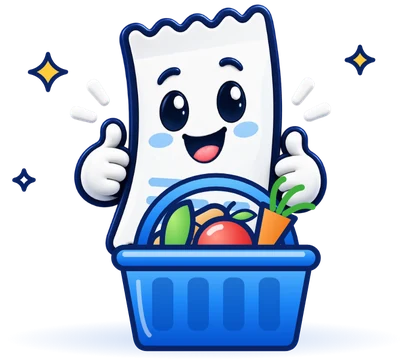
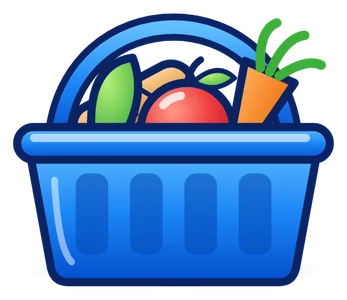
Use clean object illustrations without mascot in discover tiles
Claude-Session: https://claude.ai/code/session_01RAugsNenM11thSoThEpHun

diff --git a/apps/web/src/app/globals.css b/apps/web/src/app/globals.css
@@ -4883,18 +4883,19 @@ button.supermarket-choice.is-future:disabled { opacity: 1; cursor: default; }
   .ux-product-row .product-image { width: 62px; height: 72px; }
 }
 
-/* Ontdek-tegels: Maatje-illustraties in plaats van lijniconen */
-.discover-shortcuts button { grid-template-columns: minmax(0,1fr) 26px; grid-template-rows: auto auto; gap: 6px 6px; min-height: 0; padding: 8px 11px 12px; }
-.discover-shortcuts button > span.discover-tile-art { grid-column: 1 / -1; grid-row: 1; display: block; justify-self: center; width: 100%; max-width: 170px; }
-.discover-tile-art img { display: block; width: 100%; height: auto; filter: drop-shadow(0 3px 5px color-mix(in srgb, var(--brand-deep) 12%, transparent)); }
-.discover-shortcuts button > span:nth-child(2) { grid-column: 1; grid-row: 2; align-self: center; }
-.discover-shortcuts button > span:nth-child(3) { grid-column: 2; grid-row: 2; align-self: center; }
-.discover-shortcuts button:nth-child(3) { grid-template-columns: 96px minmax(0,1fr) 26px; grid-template-rows: auto; gap: 12px; padding: 6px 13px 6px 10px; }
-.discover-shortcuts button:nth-child(3) > span.discover-tile-art { grid-column: 1; grid-row: 1; max-width: 96px; }
-.discover-shortcuts button:nth-child(3) > span:nth-child(2) { grid-column: 2; grid-row: 1; }
-.discover-shortcuts button:nth-child(3) > span:nth-child(3) { grid-column: 3; grid-row: 1; }
+/* Ontdek-tegels: strakke illustraties van voorwerpen in plaats van lijniconen */
+.discover-shortcuts button { grid-template-columns: minmax(0,1fr) 26px; grid-template-rows: 64px auto; gap: 10px 6px; min-height: 0; padding: 14px 13px 13px; }
+.discover-shortcuts button > span.discover-tile-art { grid-column: 1 / -1; grid-row: 1; display: flex; align-items: center; justify-content: flex-start; height: 64px; }
+.discover-tile-art img { display: block; width: auto; height: 100%; }
+.discover-shortcuts button > span:nth-child(2) { grid-column: 1; grid-row: 2; align-self: start; }
+.discover-shortcuts button > span:nth-child(3) { grid-column: 2; grid-row: 2; align-self: start; }
+.discover-shortcuts button:nth-child(3) { grid-template-columns: 74px minmax(0,1fr) 26px; grid-template-rows: auto; gap: 12px; padding: 12px 13px; }
+.discover-shortcuts button:nth-child(3) > span.discover-tile-art { grid-column: 1; grid-row: 1; justify-content: center; height: 56px; }
+.discover-shortcuts button:nth-child(3) > span:nth-child(2) { grid-column: 2; grid-row: 1; align-self: center; }
+.discover-shortcuts button:nth-child(3) > span:nth-child(3) { grid-column: 3; grid-row: 1; align-self: center; }
 @media (max-width: 390px) {
-  .discover-shortcuts button { min-height: 0; padding: 7px 9px 11px; }
-  .discover-shortcuts button:nth-child(3) { grid-template-columns: 86px minmax(0,1fr) 26px; padding: 6px 11px 6px 8px; }
-  .discover-shortcuts button:nth-child(3) > span.discover-tile-art { max-width: 86px; }
+  .discover-shortcuts button { min-height: 0; grid-template-rows: 56px auto; padding: 12px 11px 11px; }
+  .discover-shortcuts button > span.discover-tile-art { height: 56px; }
+  .discover-shortcuts button:nth-child(3) { grid-template-columns: 66px minmax(0,1fr) 26px; padding: 11px; }
+  .discover-shortcuts button:nth-child(3) > span.discover-tile-art { height: 50px; }
 }

diff --git a/apps/web/src/components/catalog/CatalogSearchView.tsx b/apps/web/src/components/catalog/CatalogSearchView.tsx
@@ -284,13 +284,13 @@ export function CatalogSearchView({ discovery = false }: { discovery?: boolean }
       {discovery && !searchActive ? (
         <div className="discover-shortcuts" aria-label="Ontdek op jouw manier">
             <button type="button" aria-pressed={query.offersOnly} onClick={() => updateQuery({ ...query, offersOnly: true })}>
-              <span className="discover-tile-art" aria-hidden="true"><Image src="/branding/discover/aanbiedingen.webp" alt="" width={520} height={388} sizes="180px" /></span><span><strong>Aanbiedingen</strong><small>Bekijk alle acties</small></span><span className="discover-tile-chevron" aria-hidden="true"><Icon name="chevron" size={18} /></span>
+              <span className="discover-tile-art" aria-hidden="true"><Image src="/branding/discover/aanbiedingen.webp" alt="" width={319} height={300} sizes="80px" /></span><span><strong>Aanbiedingen</strong><small>Bekijk alle acties</small></span><span className="discover-tile-chevron" aria-hidden="true"><Icon name="chevron" size={18} /></span>
             </button>
             <button type="button" aria-pressed={query.sort === "price-asc"} onClick={() => updateQuery({ ...query, sort: query.sort === "price-asc" ? "relevance" : "price-asc" })}>
-              <span className="discover-tile-art" aria-hidden="true"><Image src="/branding/discover/voordelig-kiezen.webp" alt="" width={520} height={382} sizes="180px" /></span><span><strong>Voordelig kiezen</strong><small>Producten met scherpe prijzen</small></span><span className="discover-tile-chevron" aria-hidden="true"><Icon name="chevron" size={18} /></span>
+              <span className="discover-tile-art" aria-hidden="true"><Image src="/branding/discover/voordelig-kiezen.webp" alt="" width={286} height={300} sizes="80px" /></span><span><strong>Voordelig kiezen</strong><small>Producten met scherpe prijzen</small></span><span className="discover-tile-chevron" aria-hidden="true"><Icon name="chevron" size={18} /></span>
             </button>
             <button type="button" onClick={() => setFiltersOpen(true)}>
-              <span className="discover-tile-art" aria-hidden="true"><Image src="/branding/discover/alle-categorieen.webp" alt="" width={408} height={360} sizes="110px" /></span><span><strong>Alle categorieën</strong><small>Bekijk producten per categorie</small></span><span className="discover-tile-chevron" aria-hidden="true"><Icon name="chevron" size={18} /></span>
+              <span className="discover-tile-art" aria-hidden="true"><Image src="/branding/discover/alle-categorieen.webp" alt="" width={347} height={300} sizes="80px" /></span><span><strong>Alle categorieën</strong><small>Bekijk producten per categorie</small></span><span className="discover-tile-chevron" aria-hidden="true"><Icon name="chevron" size={18} /></span>
             </button>
         </div>
       ) : null}

diff --git a/PROJECT_STATE.md b/PROJECT_STATE.md
@@ -1,10 +1,9 @@
-# Checkpoint — Ontdek-tegels met Maatje-illustraties — 14 oktober 2026
+# Checkpoint — Ontdek-tegels met strakke voorwerpillustraties — 14 oktober 2026
 
-- De gebruiker koos illustratierichting 1 (**Maatje in actie**). De lijniconen in de drie Ontdek-tegels zijn vervangen door illustraties met de officiële mascotte uit `public/branding/maatje-home-c.webp` plus een voorwerp in dezelfde stijl (donkerblauwe contour, glanzende verlopen): Aanbiedingen met rood `%`-prijslabel, Voordelig kiezen met spaarvarken en euromunt, Alle categorieën met blauwe boodschappenmand met brood, appel en wortel.
-- Assets staan in `apps/web/public/branding/discover/` (`aanbiedingen.webp`, `voordelig-kiezen.webp`, `alle-categorieen.webp`, samen ca. 120 kB). De mascotte is ongewijzigd ingevoegd; de voorwerpen zijn getekend en als transparante WebP gerenderd.
-- De halve tegels tonen de illustratie bovenaan met titel, uitleg en chevron eronder; `Alle categorieën` blijft een brede kaart met de illustratie links. Glanslagen, tinten, druk-feedback en focusstijl zijn behouden. Acties, routes, filters, zoeklogica en categorieënrij zijn ongewijzigd.
-- Hiermee staan op de lege `/ontdek` vier mascottes (header + drie tegels), bewust volgens de gekozen richting; de eerdere regel "één mascotte" is daarmee door de gebruiker herzien, mits visueel akkoord.
-- Web `npm run check`: lint, typecheck, **912/912 tests** en production build groen. Chromium op **390×844** en **430×844**: geen horizontale overflow, alle drie illustraties geladen. Preview- en fysieke iPhone-acceptatie staan open; daarna krijgt de categorieënrij dezelfde uitstraling.
+- Eerst is richting 1 (**Maatje in actie**) gebouwd: per tegel de mascotte met een voorwerp. Op de Preview vond de gebruiker vier mascottes op `/ontdek` te druk en niet professioneel; de mascottes in de tegels zijn daarom weer verwijderd. De header-mascotte blijft de enige mascotte op het scherm.
+- De tegels tonen nu alleen een strak getekend voorwerp in Maatje-stijl (donkerblauwe contour, glanzende verlopen, geen sterretjes): Aanbiedingen een rood `%`-prijslabel, Voordelig kiezen een spaarvarken met euromunt, Alle categorieën een blauwe boodschappenmand met brood, appel en wortel. Assets: `apps/web/public/branding/discover/*.webp` (samen ca. 52 kB).
+- Halve tegels: voorwerp linksboven op vaste hoogte (64px, 56px onder 390px), titel/uitleg en chevron eronder op gelijke hoogte. `Alle categorieën` blijft een brede kaart met het voorwerp links. Glanslagen, tinten, druk-feedback en focusstijl behouden; acties, routes, filters, zoeklogica en categorieënrij ongewijzigd.
+- Web `npm run check`: lint, typecheck, **912/912 tests** en production build groen. Chromium op **390×844** en **430×844**: geen horizontale overflow. Preview- en fysieke iPhone-acceptatie staan open; daarna krijgt de categorieënrij dezelfde uitstraling.
 
 # Checkpoint — Ontdek-tegels glanzend — 14 oktober 2026
 
